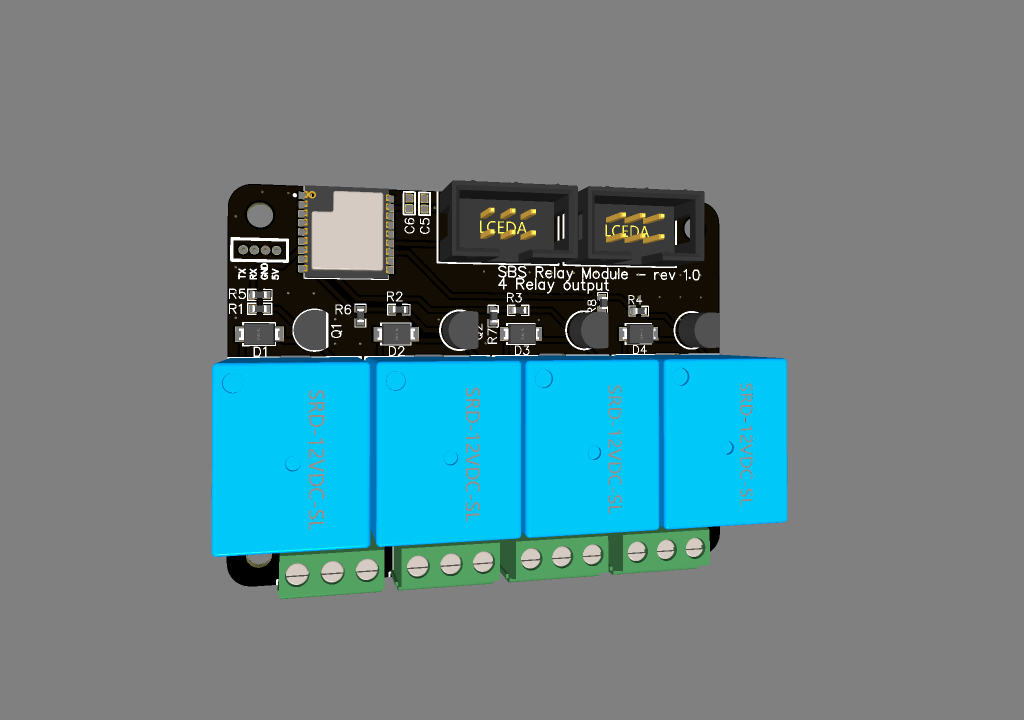
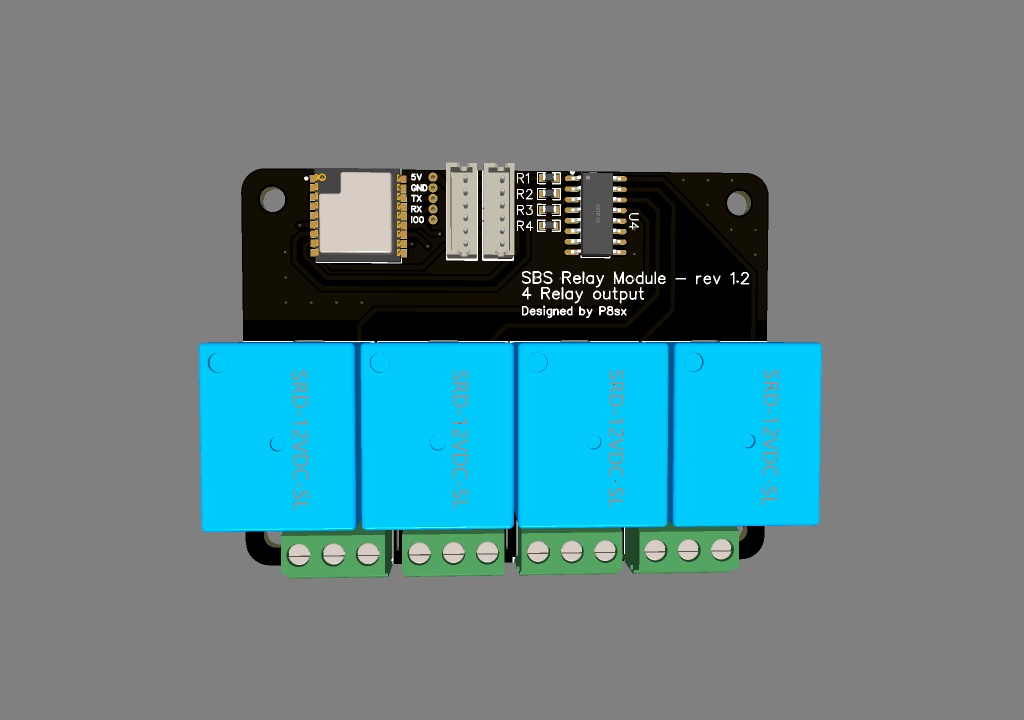
updated relay module image

Changed region(s): [[0.1875, 0.2139, 0.8125, 0.8556]]

diff --git a/README.md b/README.md
@@ -44,7 +44,7 @@ In the order in which they will be designed
 
 ## Modules preview
 
-### Relay module [SBS-RM-1.0]
+### Relay module [SBS-RM-1.2]
 ![relay-module](./images/relay-module.png)
 
 ### Input module [SBS-IM-1.0]
